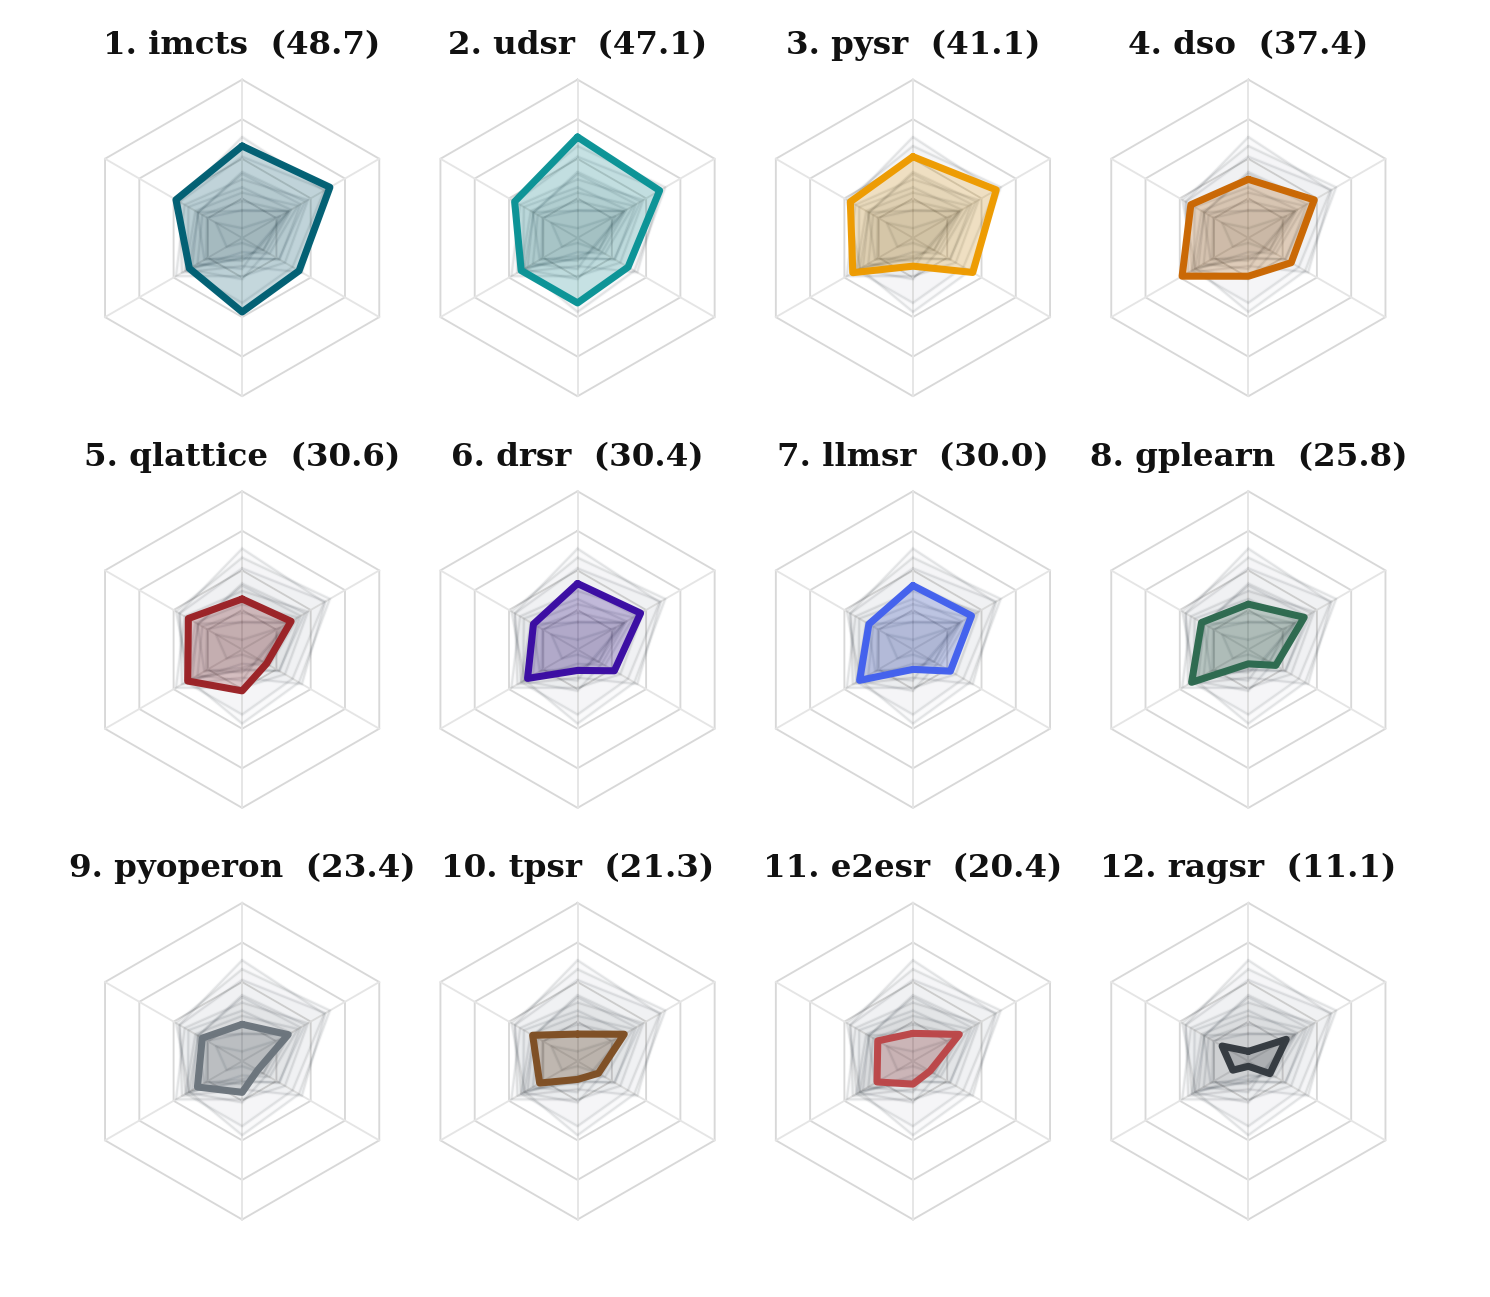
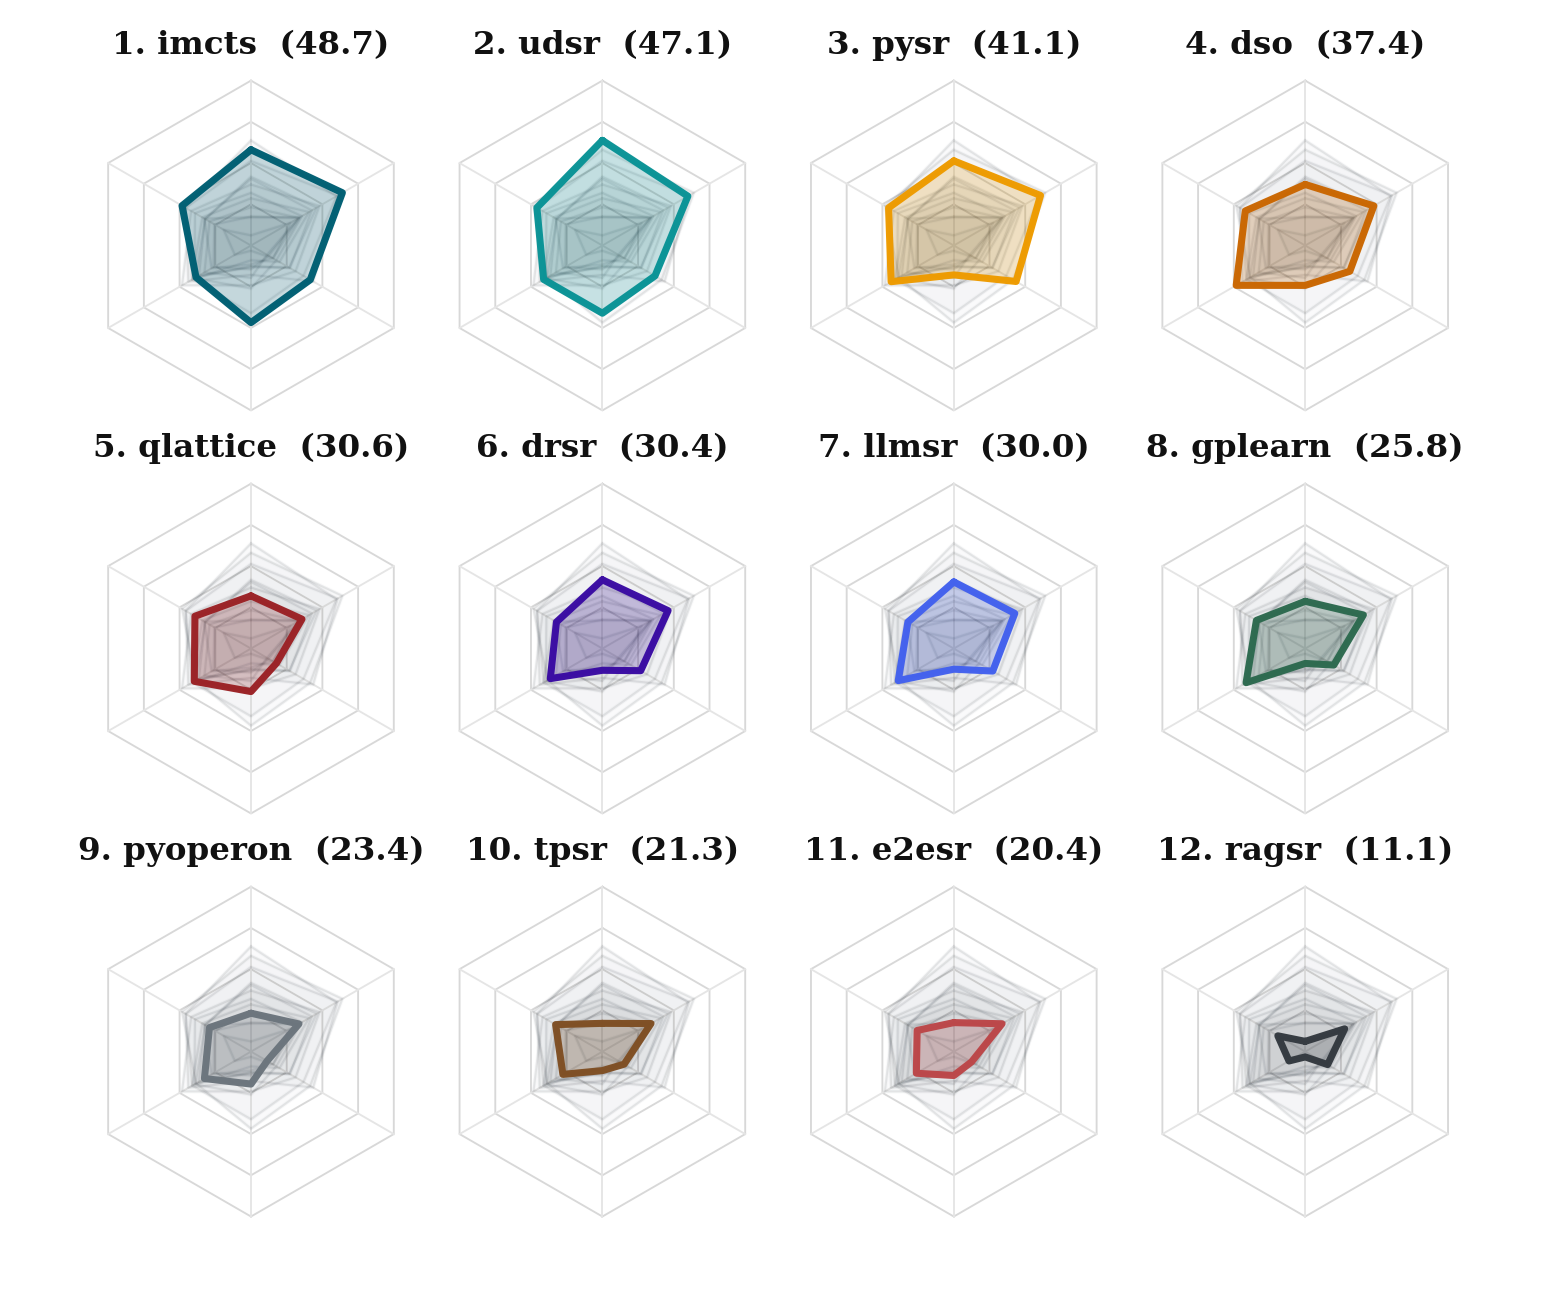
[update] 微调六轴小图间距

diff --git a/check/plot_hexagon_small_multiples_neurips.py b/check/plot_hexagon_small_multiples_neurips.py
@@ -109,6 +109,7 @@ def render_small_multiples(
     orientation: str,
     figsize: tuple[float, float] = (7.05, 4.45),
     wspace: float = 0.08,
+    hspace: float = -0.06,
 ) -> dict[str, object]:
     values = df[AXES].to_numpy(dtype=float)
     algorithms = df["algorithm"].astype(str).tolist()
@@ -149,7 +150,7 @@ def render_small_multiples(
             zorder=6,
         )
 
-    fig.subplots_adjust(left=0.025, right=0.985, top=0.955, bottom=0.030, wspace=wspace, hspace=0.00)
+    fig.subplots_adjust(left=0.025, right=0.985, top=0.955, bottom=0.030, wspace=wspace, hspace=hspace)
 
     ANALYSIS_OUT.mkdir(parents=True, exist_ok=True)
     PAPER_IMGS.mkdir(parents=True, exist_ok=True)
@@ -180,6 +181,8 @@ def render_small_multiples(
         "background_alpha": 0.095,
         "highlight_linewidth": 1.70,
         "highlight_fill_alpha": HIGHLIGHT_FILL_ALPHA,
+        "layout_wspace": wspace,
+        "layout_hspace": hspace,
         "axis_labels": "caption_only",
         "axis_order_clockwise_from_top": AXIS_LABELS,
         "radial_scale": "linear: r=score/100",
@@ -211,7 +214,8 @@ def main() -> None:
             out_name="fig_hexagon_small_multiples_neurips.png",
             orientation="point_up",
             figsize=(5.92, 4.45),
-            wspace=-0.52,
+            wspace=-0.46,
+            hspace=-0.06,
         ),
         render_small_multiples(
             df,
